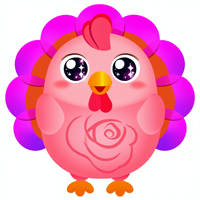
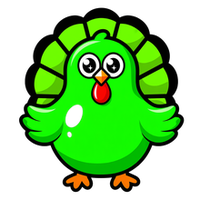
fix: RGBA透明火鸡图+PC竖屏布局+白色棕色火鸡映射

diff --git a/bundle.js b/bundle.js
@@ -16,8 +16,10 @@
   function resizeCanvas() {
     var c = getCanvas();
     var dpr = window.devicePixelRatio || 1;
-    c.width = window.innerWidth * dpr;
-    c.height = window.innerHeight * dpr;
+    // Use canvas element's CSS size (respects aspect-ratio constraints on PC)
+    var rect = c.getBoundingClientRect();
+    c.width = rect.width * dpr;
+    c.height = rect.height * dpr;
   }
 
   window.wx = {
@@ -34,9 +36,11 @@
     },
 
     getSystemInfoSync: function() {
+      var c = getCanvas();
+      var rect = c.getBoundingClientRect();
       return {
-        windowWidth: window.innerWidth,
-        windowHeight: window.innerHeight,
+        windowWidth: rect.width,
+        windowHeight: rect.height,
         pixelRatio: window.devicePixelRatio || 1,
       };
     },
@@ -1075,8 +1079,8 @@ const TURKEY_IMG_MAP = [
   'images/turkey_pink.png',    // 5 粉色
   'images/turkey_green.png',   // 6 绿色
   'images/turkey_rainbow.png', // 7 彩虹
-  'images/turkey_red.png',     // 8 白色（无专用图，用红色代替）
-  'images/turkey_red.png',     // 9 棕色（无专用图，用红色代替）
+  'images/turkey_white.png',   // 8 白色
+  'images/turkey_black.png',   // 9 棕色/黑色
 ];
 
 // ========== 游戏常量 ==========

diff --git a/index.html b/index.html
@@ -5,9 +5,25 @@
   <meta name="viewport" content="width=device-width,initial-scale=1,maximum-scale=1,user-scalable=no">
   <title>抓火鸡 🦃</title>
   <style>
-    * { margin:0; padding:0; }
-    html,body { width:100%; height:100%; overflow:hidden; background:#000; }
-    canvas { display:block; width:100%; height:100%; touch-action:none; }
+    * { margin:0; padding:0; box-sizing:border-box; }
+    html,body { width:100%; height:100%; overflow:hidden; background:#000; display:flex; justify-content:center; align-items:center; }
+    #gameCanvas {
+      display:block;
+      touch-action:none;
+      /* Mobile: full screen */
+      width:100%; height:100%;
+    }
+    /* PC: constrain to phone aspect ratio */
+    @media (min-width: 600px) {
+      #gameCanvas {
+        width: auto;
+        height: 100%;
+        max-height: 100vh;
+        aspect-ratio: 9/16;
+        border-radius: 12px;
+        box-shadow: 0 0 40px rgba(0,0,0,0.5);
+      }
+    }
   </style>
 </head>
 <body>
